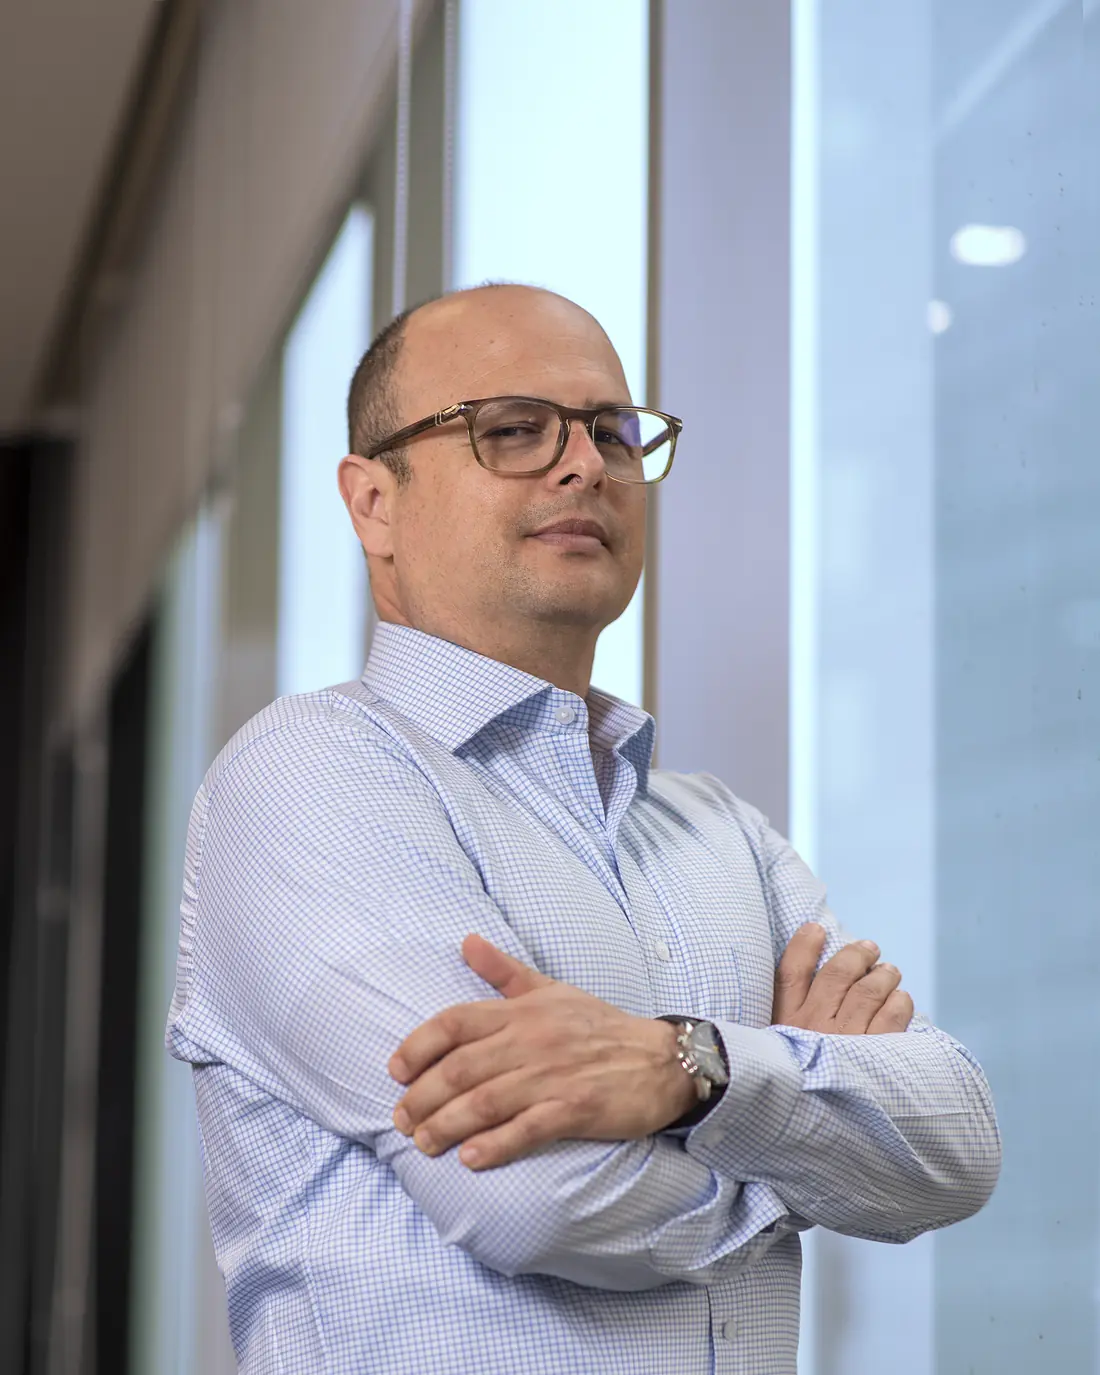
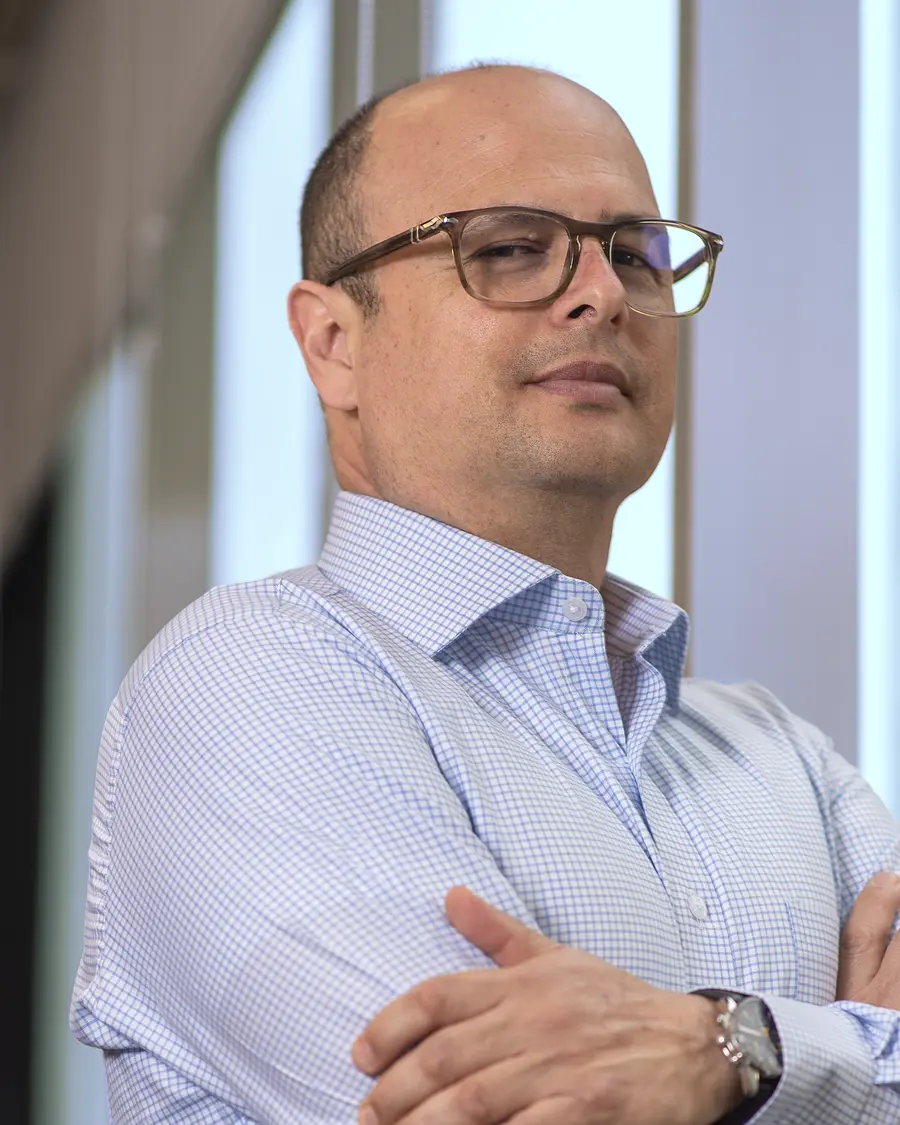
Rehace la foto de /solicitud y describe CapitalOptima por lo que hace
/solicitud:
- El recorte anterior tomaba la parte alta del encuadre original: Augusto
  quedaba chico, descentrado, con mucha ventana oscura a la izquierda y
  cortado a media antebrazo. Nuevo recorte 2600x3250 centrado en el sujeto:
  llena el cuadro, entra el gesto completo de brazos cruzados.
- El solapamiento de -40 px estaba en toda la grilla, asi que la franja
  oscura del hero asomaba por el hueco entre la foto y el formulario. Ahora
  el -40 px vive solo en .formcard, que es opaco: la tarjeta sigue
  levantandose sobre la banda oscura y no queda ninguna rendija.

Soluciones con IA:
- CapitalOptima decia "Estados financieros en vivo", que es la salida, no el
  trabajo. Por debajo hay libro diario con partida doble, plan de cuentas,
  proveedores, operaciones recurrentes y conciliacion bancaria. Ahora dice
  "Caja, deuda y resultados bajo control".

Claude-Session: https://claude.ai/code/session_01P3BSrSFhMoyRC7M9h7bfmG

diff --git a/solicitud.html b/solicitud.html
@@ -166,10 +166,10 @@ footer a:hover{color:#fff}
 /* ---------- foto + formulario (sesión oct 2026) ---------- */
 figure{margin:0}
 .ph{display:block;width:100%;height:auto;border-radius:2px}
-.apply-grid{display:grid;grid-template-columns:1fr;gap:36px;align-items:start;margin-top:-40px}
-.apply-grid .formcard{margin:0;max-width:none}
+.apply-grid{display:grid;grid-template-columns:1fr;gap:36px;align-items:start}
+.apply-grid .formcard{margin:-40px 0 0;max-width:none}
 .apply-aside{order:2;max-width:320px}
-.apply-aside .ph{aspect-ratio:4/5;object-fit:cover;object-position:50% 20%}
+.apply-aside .ph{aspect-ratio:4/5;object-fit:cover;object-position:50% 30%}
 .apply-aside p{margin-top:18px;font-family:var(--serif);font-size:20px;line-height:1.35}
 .apply-aside span{display:block;margin-top:10px;font-family:var(--sans);font-size:13px;letter-spacing:.06em;color:var(--mute)}
 @media(min-width:900px){.apply-grid{grid-template-columns:300px 1fr;column-gap:48px}.apply-aside{order:0;position:sticky;top:104px}}
@@ -213,7 +213,7 @@ figure{margin:0}
  <div class="wrap">
   <div class="apply-grid">
   <aside class="apply-aside">
-   <figure><img class="ph" src="/img/web-05-solicitud-7349.webp" width="1100" height="1375" loading="lazy" decoding="async" alt="Augusto Balarezo, de pie junto al ventanal, con los brazos cruzados."></figure>
+   <figure><img class="ph" src="/img/web-05-solicitud-7349.webp" width="900" height="1125" loading="lazy" decoding="async" alt="Augusto Balarezo, de pie junto al ventanal, con los brazos cruzados."></figure>
    <p>Reviso cada solicitud personalmente.</p>
    <span>Augusto Balarezo · Darwin Optima</span>
   </aside>

diff --git a/index.html b/index.html
@@ -404,7 +404,7 @@ figure{margin:0}
   </div>
   <div class="rows" style="border-color:var(--line-d)">
    <div class="tool"><b>ACS</b><span>Agenda y seguimiento de clientes</span></div>
-   <div class="tool"><b>CapitalOptima</b><span>Estados financieros en vivo</span></div>
+   <div class="tool"><b>CapitalOptima</b><span>Caja, deuda y resultados bajo control</span></div>
    <div class="tool"><b>Quadrant</b><span>Pendientes priorizados y resueltos</span></div>
    <div class="tool"><b>Tarifa Justa</b><span>Facturación por horas sin caos</span></div>
    <div class="tool"><b>PCM</b><span>Las finanzas personales del dueño</span></div>
